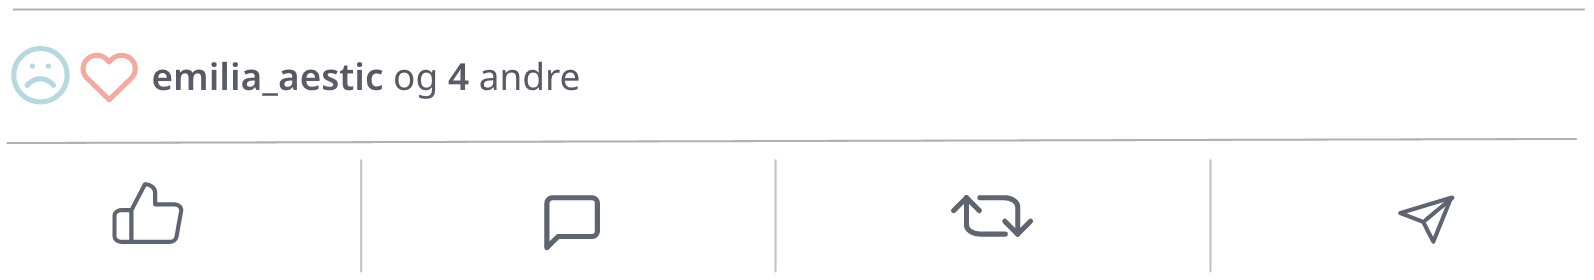
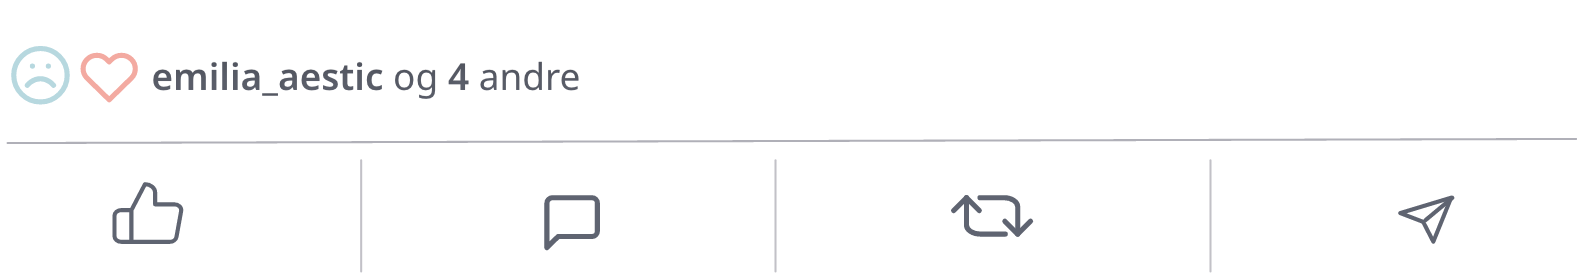
post update

Changed region(s): [[0.0, 0.0286, 1.0, 0.0571]]

diff --git a/static/Frontpage.css b/static/Frontpage.css
@@ -24,20 +24,27 @@
 
 .post{
   border-radius: 25px;
-  margin-top: 207px;
+  margin-top: 65px;
   margin-left: 150px;
   width: 660px;
   background: #FFFFFF;
   box-shadow: 0px 8px 15px #00000014;
   opacity: 1;
+  padding-bottom: 25px;
 }
 
 .post_contents{
 	border: 1px solid #C2C1C7;
-	border-radius: 25px;
+	border-radius: 20px;
 	margin: auto;
-	margin-top: 45px;
-	width: 500px
+	margin-top: 35px;
+	width: 610px
+}
+
+.post_bottom img{
+	width: 580px;
+	margin-left: 15px;
+	margin-top: -5px;
 }
 
 
@@ -63,8 +70,21 @@
 	width: 25px;
 }
 
-p, h1{
+p{
 	font-family: Helvetica;
+	font-size: 15px;
+	color: #606470;
+	margin-left: 17px;
+	margin-top: 10px;
+	padding-bottom: 17px;
+}
+
+h1{
+	font-family: Helvetica;
+	font-size: 18px;
+	color: #606470;
+	margin-left: 17px;
+	margin-top: 15px;
 }
 
 a{
@@ -72,12 +92,19 @@ a{
 	text-decoration: none;
 }
 
-#line_post{
-	
+#line_post_top {
+	width: 573px;
+	margin-left: 17px;
+}
+
+#line_post_bottom {
+	width: 573px;
+	margin-left: 17px;
 }
 
 .image_in_post img{
-	width: 660px;
+	width: 610px;
+	margin-top: 10px;
 }
 
 .top_menu{

diff --git a/pages/posts.py b/pages/posts.py
@@ -63,13 +63,17 @@ def show_posts(posts=[], user=None):
                 with div(cls='post_contents'):
                     h1(display_post.post.title)
                     
-                    img(src=app.url_for('static', name='static', filename='images/line.png'), id='line_post')
-                    
                     if isinstance(display_post.post, post.TextPost): # text post
+                        
+                        img(src=app.url_for('static', name='static', filename='images/line.png'), id='line_post_top')
+                        
                         with div():
                             lines = filter(bool, display_post.post.contents.splitlines())
                             for par in lines:
                                 p(par)
+                        
+                                img(src=app.url_for('static', name='static', filename='images/line.png'), id='line_post_bottom')
+                        
                     else: # image post
                         with div(cls='image_in_post'):
                             img(src=app.url_for('static', name='static',filename=f'images/posts/{display_post.post.image_path}'))
